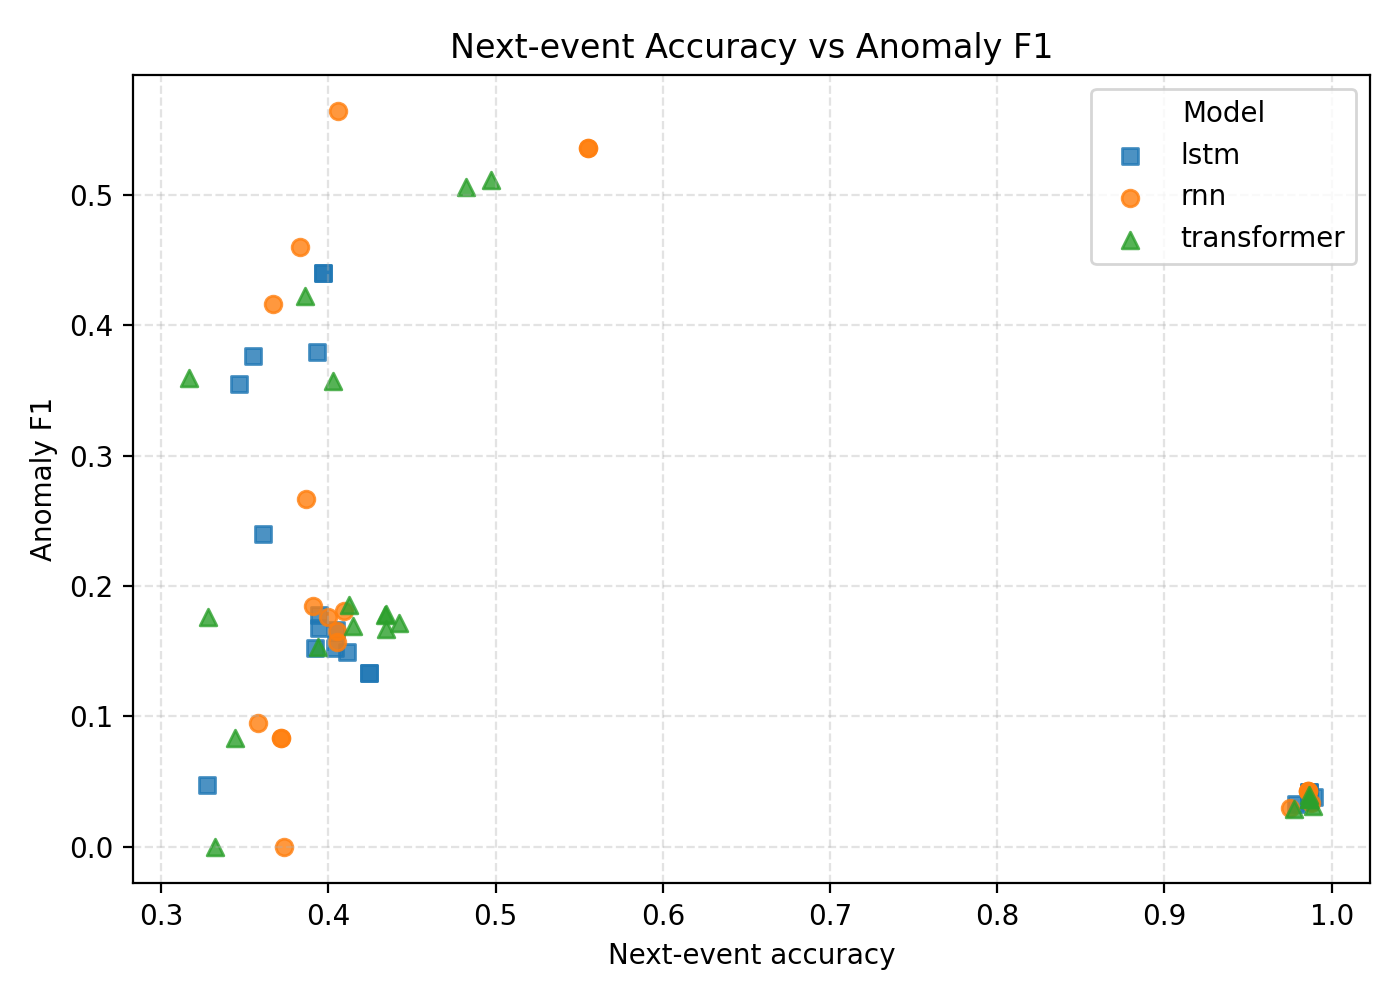
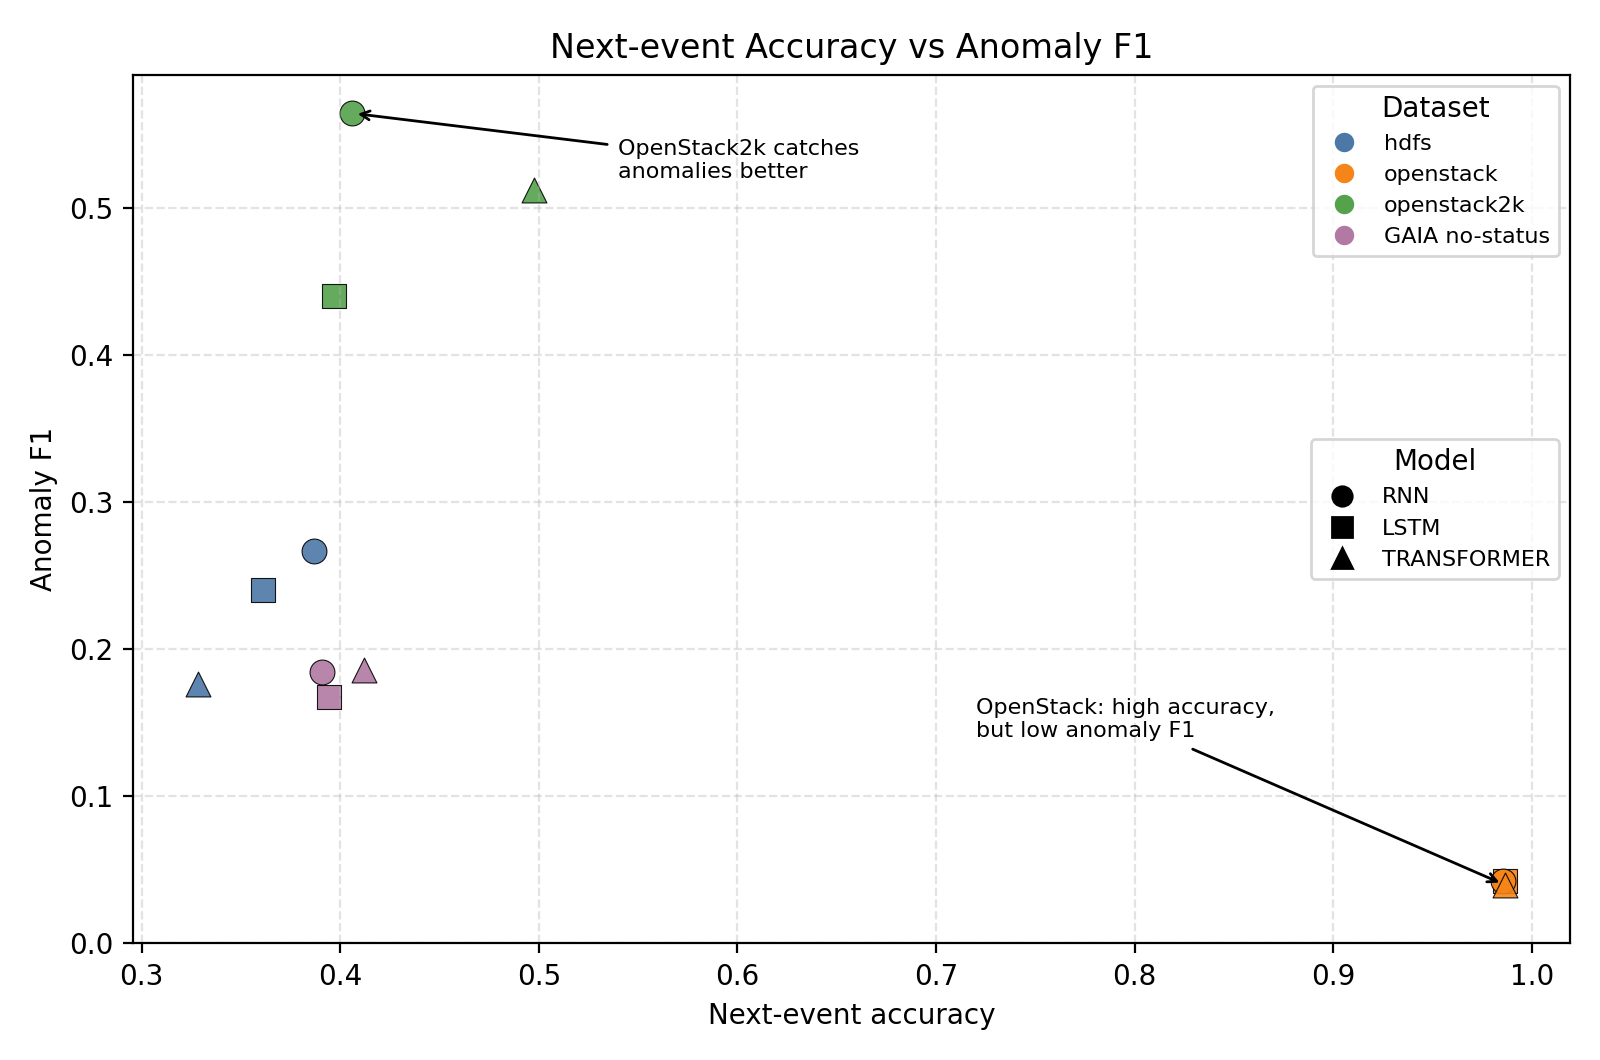
bug fixes

diff --git a/src/log_anomaly/plot_results.py b/src/log_anomaly/plot_results.py
@@ -4,6 +4,7 @@ import argparse
 from pathlib import Path
 
 import matplotlib.pyplot as plt
+from matplotlib.lines import Line2D
 import pandas as pd
 
 
@@ -113,15 +114,70 @@ def plot_sequence_sweep(results: pd.DataFrame, output: Path) -> None:
 
 
 def plot_accuracy_vs_f1(results: pd.DataFrame, output: Path) -> None:
-    fig, ax = plt.subplots(figsize=(7, 5))
+    best = _best_by_dataset_model(results)
+    fig, ax = plt.subplots(figsize=(8, 5.3))
     markers = {"rnn": "o", "lstm": "s", "transformer": "^"}
-    for model, rows in results.groupby("model"):
-        ax.scatter(rows["next_event_accuracy"], rows["f1"], label=model, marker=markers.get(model, "o"), alpha=0.8)
+    colors = {
+        "hdfs": "#4C78A8",
+        "openstack": "#F58518",
+        "openstack2k": "#54A24B",
+        "GAIA no-status": "#B279A2",
+    }
+
+    for _, row in best.iterrows():
+        dataset = row["dataset"]
+        model = row["model"]
+        ax.scatter(
+            row["next_event_accuracy"],
+            row["f1"],
+            color=colors.get(dataset, "#777777"),
+            marker=markers.get(model, "o"),
+            s=80,
+            edgecolor="black",
+            linewidth=0.4,
+            alpha=0.9,
+        )
+
     ax.set_title("Next-event Accuracy vs Anomaly F1")
     ax.set_xlabel("Next-event accuracy")
     ax.set_ylabel("Anomaly F1")
     ax.grid(True, linestyle="--", alpha=0.35)
-    ax.legend(title="Model")
+    ax.set_ylim(bottom=0)
+
+    if "openstack" in set(best["dataset"]):
+        openstack = best[best["dataset"] == "openstack"].sort_values("next_event_accuracy").iloc[-1]
+        ax.annotate(
+            "OpenStack: high accuracy,\nbut low anomaly F1",
+            xy=(openstack["next_event_accuracy"], openstack["f1"]),
+            xytext=(0.72, 0.14),
+            arrowprops={"arrowstyle": "->", "linewidth": 1.0},
+            fontsize=8,
+        )
+
+    if "openstack2k" in set(best["dataset"]):
+        openstack2k = best[best["dataset"] == "openstack2k"].sort_values("f1").iloc[-1]
+        ax.annotate(
+            "OpenStack2k catches\nanomalies better",
+            xy=(openstack2k["next_event_accuracy"], openstack2k["f1"]),
+            xytext=(0.54, 0.52),
+            arrowprops={"arrowstyle": "->", "linewidth": 1.0},
+            fontsize=8,
+        )
+
+    dataset_handles = [
+        Line2D([0], [0], marker="o", color="w", label=dataset, markerfacecolor=color, markersize=8)
+        for dataset, color in colors.items()
+        if dataset in set(best["dataset"])
+    ]
+    model_handles = [
+        Line2D([0], [0], marker=marker, color="black", label=model.upper() if model != "lstm" else "LSTM", linestyle="None", markersize=7)
+        for model, marker in markers.items()
+        if model in set(best["model"])
+    ]
+    first_legend = ax.legend(handles=dataset_handles, title="Dataset", loc="upper right", fontsize=8)
+    ax.add_artist(first_legend)
+    ax.legend(handles=model_handles, title="Model", loc="center right", fontsize=8)
+
     output.parent.mkdir(parents=True, exist_ok=True)
     plt.tight_layout()
     plt.savefig(output, dpi=200)
@@ -165,4 +221,3 @@ def main() -> None:
 
 if __name__ == "__main__":
     main()
-

diff --git a/main.tex b/main.tex
@@ -7,7 +7,7 @@
 \usepackage{listings}
 \usepackage{microtype}
 \usepackage{parskip}
-\usepackage{placeins}
+\usepackage[section]{placeins}
 \usepackage{tikz}
 \usepackage{url}
 \usepackage{xcolor}
@@ -315,6 +315,12 @@ The main grid uses:
 
 For OpenStack, OpenStack2k, and HDFS2k, the focused grid has 45 runs. For GAIA, I ran 15 more runs on a 20,000-row subset of webservice traces. I also ran a GAIA ablation where status code was first included and then removed from the input state.
 
+The code for loading datasets, building state tokens, training the models, running the experiment grid, and regenerating the report figures is available at:
+
+\begin{center}
+\url{https://github.com/satheesh18/log_anomaly_detection}
+\end{center}
+
 \section{Results}
 
 \subsection{Best Model Results}
@@ -349,6 +355,7 @@ GAIA no-status & Transformer & 0.412 & 0.128 & 0.339 & 0.186 & 0.573 \\
 \end{tabular}
 \end{table}
 
+\FloatBarrier
 Figure \ref{fig:best-f1} shows the same idea visually. OpenStack2k is the strongest setting. OpenStack is the weakest in F1 even though its accuracy is high.
 
 \begin{figure}[!htbp]
@@ -358,41 +365,44 @@ Figure \ref{fig:best-f1} shows the same idea visually. OpenStack2k is the strong
 \label{fig:best-f1}
 \end{figure}
 
+\FloatBarrier
 \subsection{Accuracy Can Be Misleading}
 
 The OpenStack result is the clearest example. All models get about 98.6\% next-event accuracy, but the anomaly F1 is only around 0.04. This means the model learned common normal transitions, but it did not separate the rare anomalous VM-instance behavior well.
 
-Figure \ref{fig:accuracy-f1} shows that high accuracy and high F1 are not the same thing.
+Figure \ref{fig:accuracy-f1} compares next-event accuracy and anomaly F1 for the best run of each dataset/model pair. Each point is one dataset and one model. Points on the right have high next-state prediction accuracy, while points near the top have better anomaly detection. The important part is that a point can be far right but still low, which means the model predicts common events well but still does not catch anomalies well.
 
 \begin{figure}[!htbp]
 \centering
-\includegraphics[width=0.68\textwidth]{outputs/final_report/figures/accuracy_vs_f1.png}
-\caption{Next-event accuracy vs anomaly F1. High prediction accuracy does not always mean good anomaly detection.}
+\includegraphics[width=0.78\textwidth]{outputs/final_report/figures/accuracy_vs_f1.png}
+\caption{Next-event accuracy vs anomaly F1. Each point is the best run for one dataset/model pair.}
 \label{fig:accuracy-f1}
 \end{figure}
 
+\FloatBarrier
 \subsection{GAIA Status-Code Ablation}
 
 GAIA was important because it looked more like product infrastructure traces. But it also showed a common experimental trap.
 
-At first, I included status code in the state token. Since the label was based on status code, the model almost got the answer directly. The best F1 was 0.997. After removing status code, the best F1 dropped to 0.186.
-
 \begin{figure}[!htbp]
 \centering
-\includegraphics[width=0.54\textwidth]{outputs/final_report/figures/gaia_status_ablation.png}
+\includegraphics[width=0.48\textwidth]{outputs/final_report/figures/gaia_status_ablation.png}
 \caption{GAIA ablation. Including status code leaks label information and makes the task too easy.}
 \label{fig:gaia-ablation}
 \end{figure}
 
+At first, I included status code in the state token. Since the label was based on status code, the model almost got the answer directly. The best F1 was 0.997. After removing status code, the best F1 dropped to 0.186.
+
 This does not mean GAIA is bad. It means feature design matters. The status-removed version is harder, but it is more honest because the model has to infer abnormal behavior from endpoint, service, duration, and message patterns.
 
+\FloatBarrier
 \subsection{Sequence Length}
 
 I also tried different sequence lengths. On GAIA, sequence length 10 worked best in the no-status setting. Longer context did not automatically improve results.
 
 \begin{figure}[!htbp]
 \centering
-\includegraphics[width=0.70\textwidth]{outputs/final_report/figures/sequence_length_sweep.png}
+\includegraphics[width=0.82\textwidth]{outputs/final_report/figures/sequence_length_sweep.png}
 \caption{Sequence length sweep. More context is not always better.}
 \label{fig:sequence-sweep}
 \end{figure}